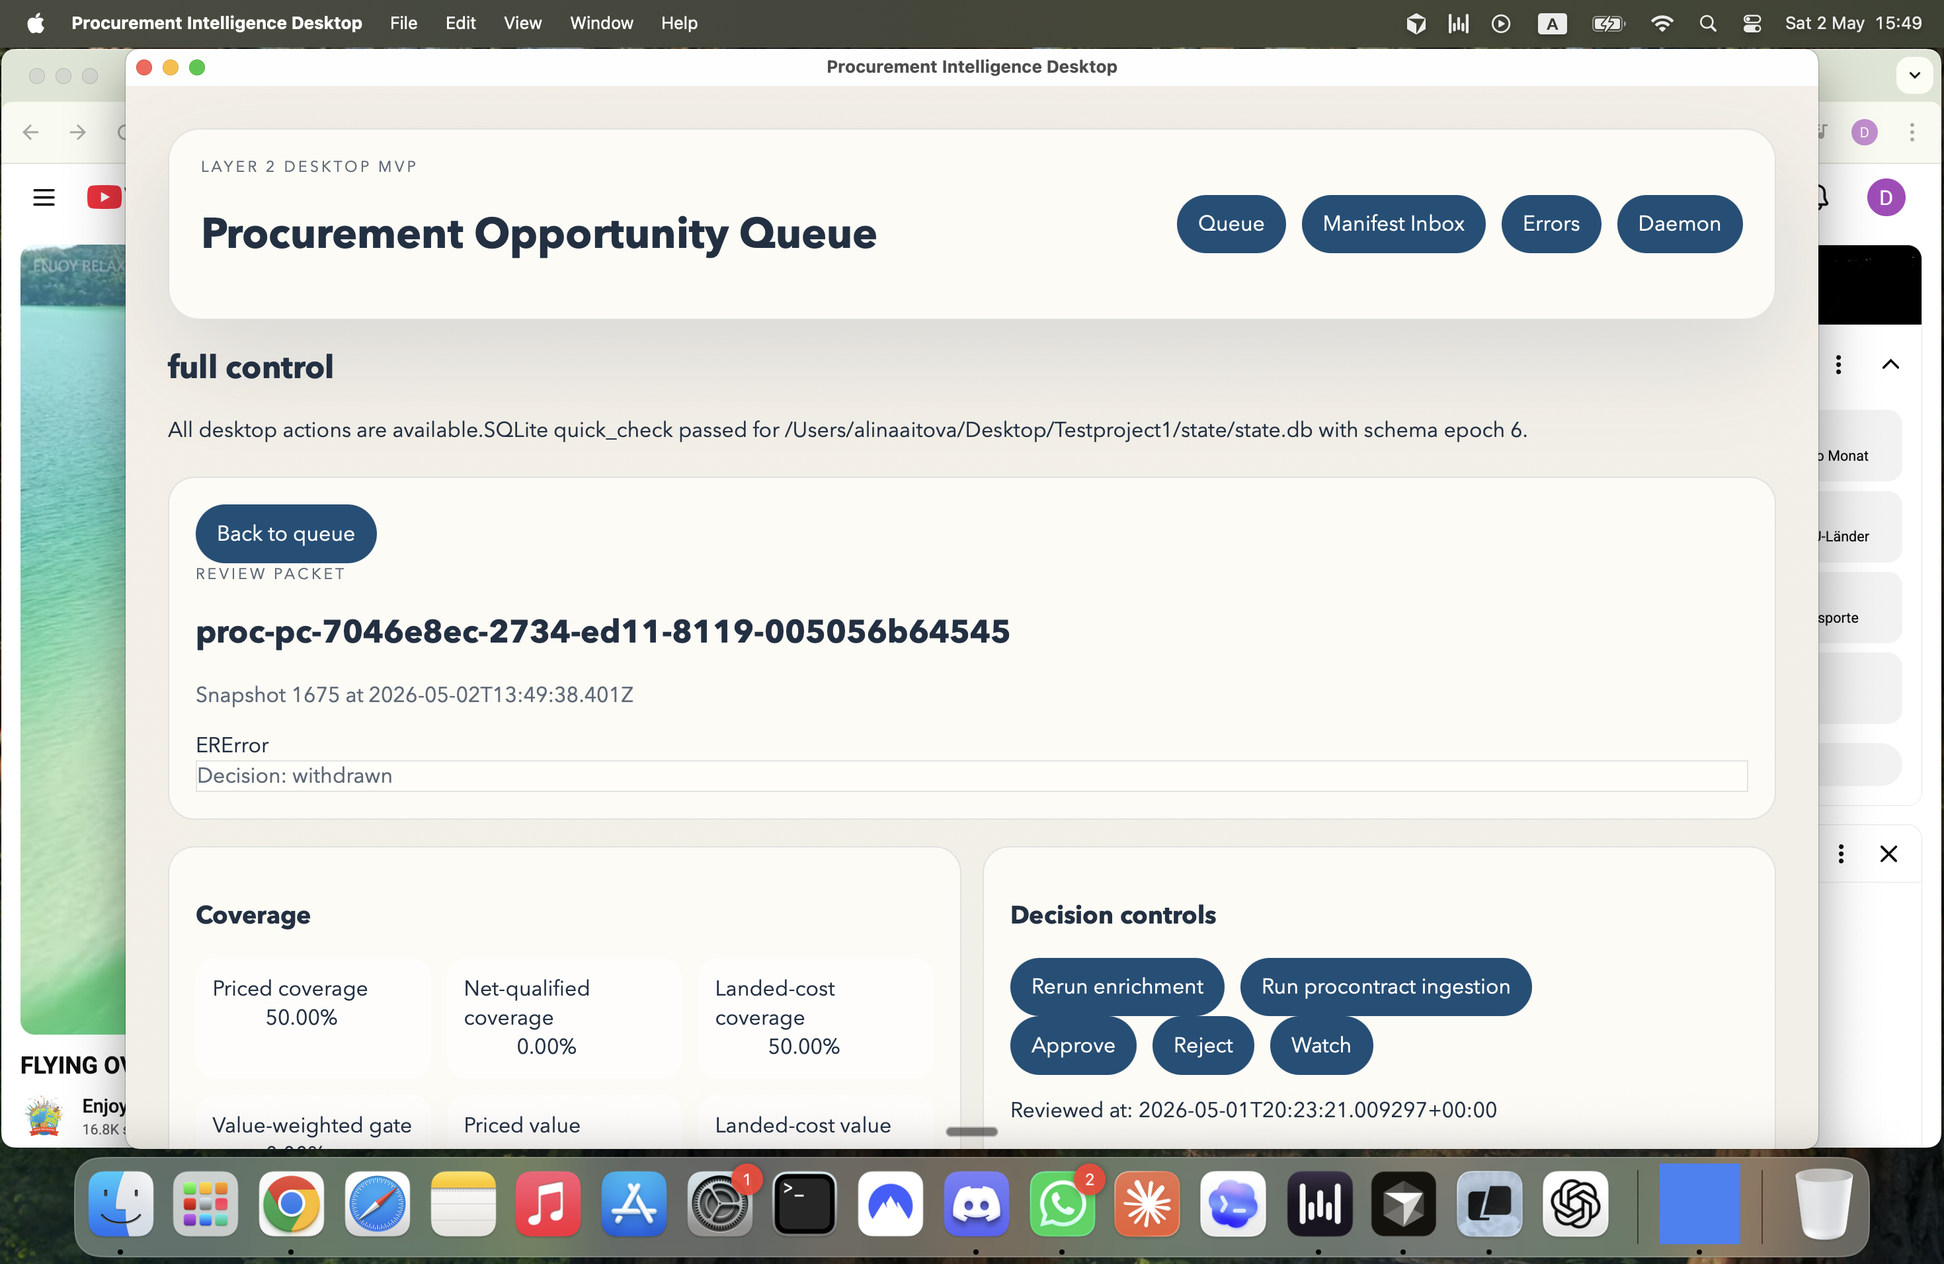
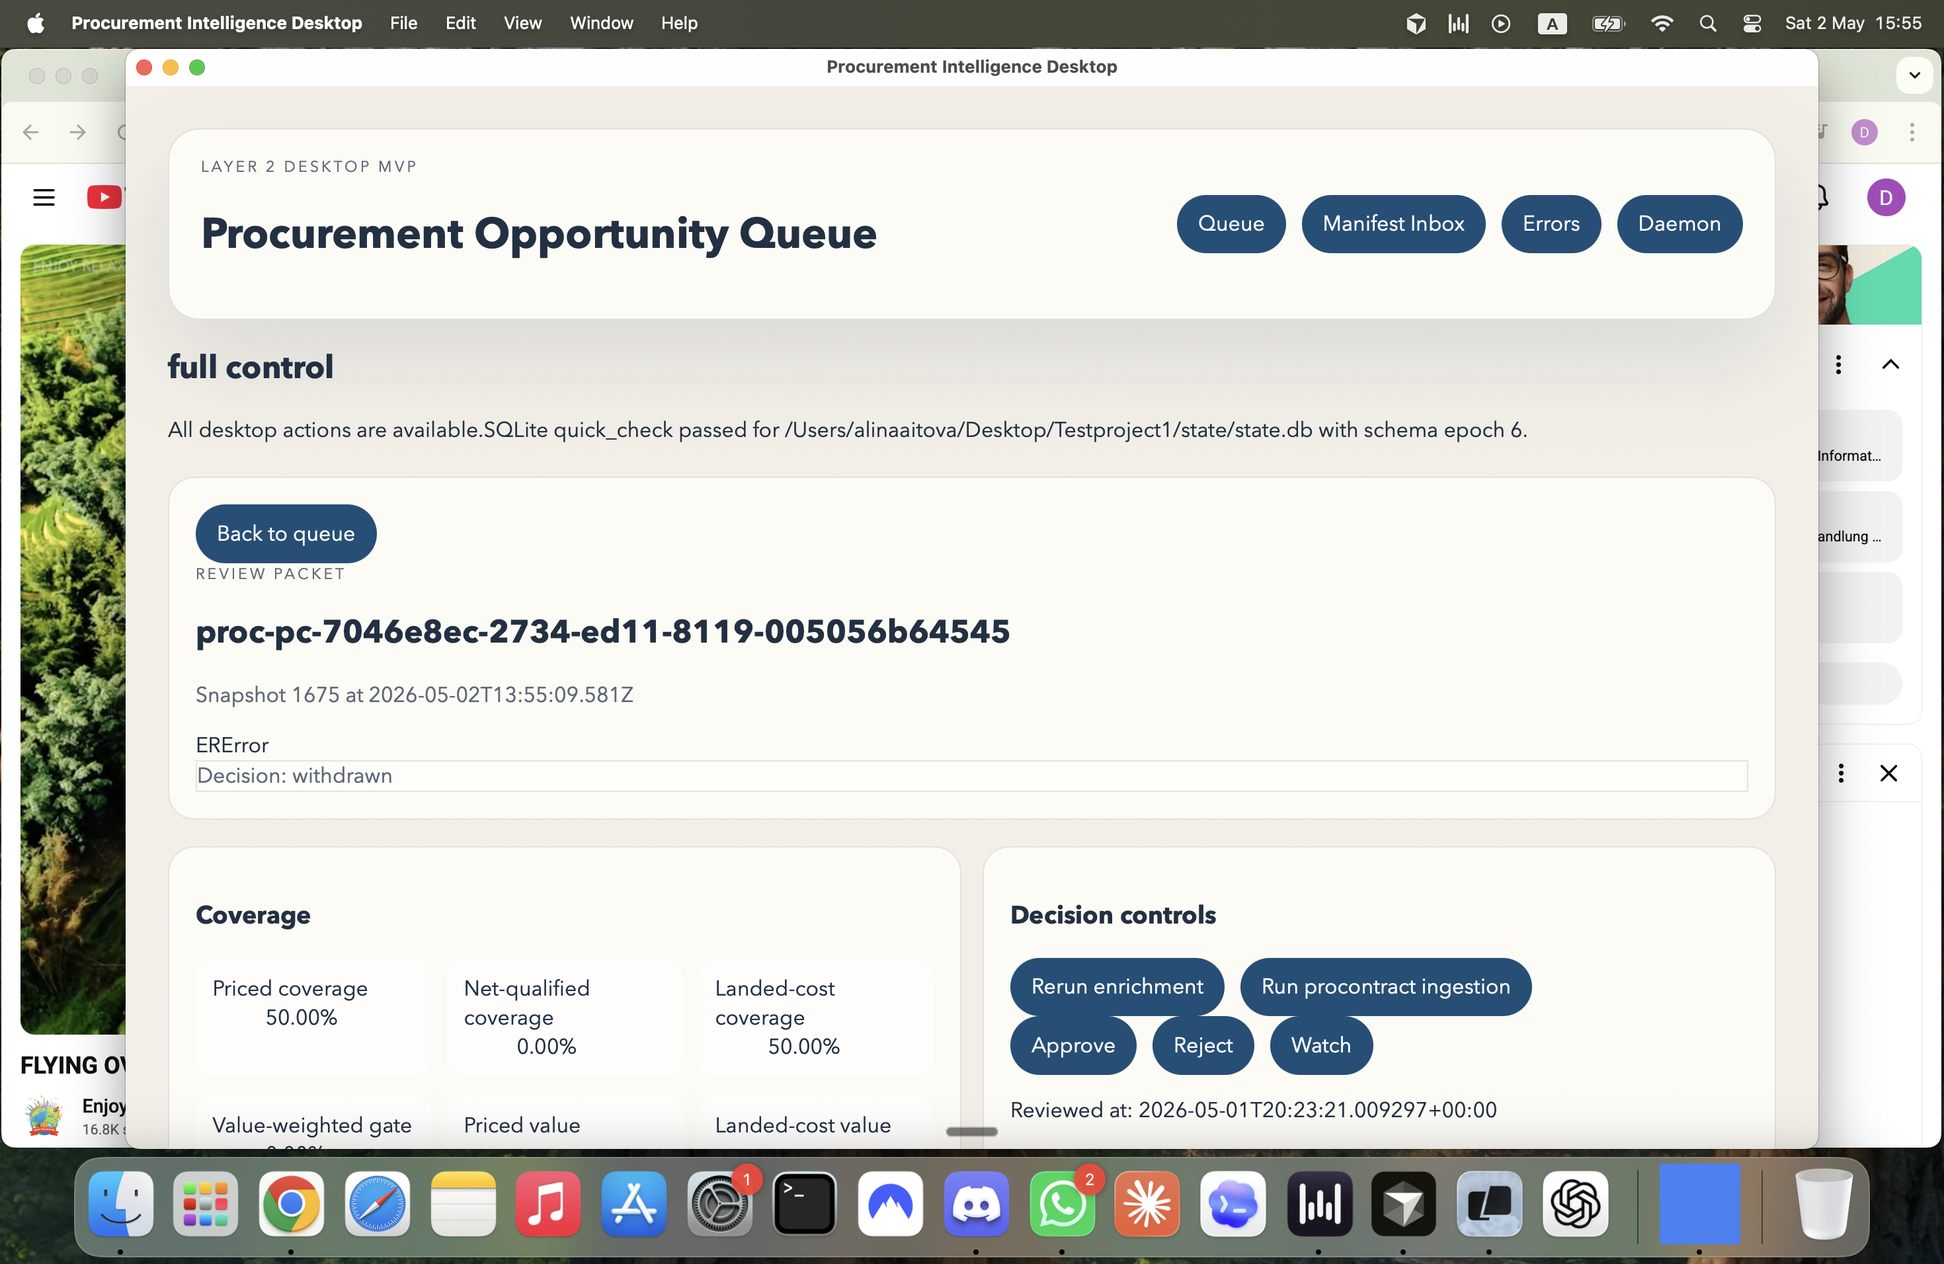
Validate stage 14 phase 2 live flow

diff --git a/apps/desktop/src/pages/OperatorDecisionPanel.test.tsx b/apps/desktop/src/pages/OperatorDecisionPanel.test.tsx
@@ -148,7 +148,7 @@ describe('FT.8 — Decision history audit chain renders entries with status', ()
         intentId: 'intent-2',
         idempotencyKey: 'key-2',
         disposition: 'watch',
-        status: 'superseded',
+        status: 'stale',
         reviewedBasisHash: 'h0',
         reviewedManifestHash: 'm0',
         reviewedAt: '2026-04-01T11:00:00Z',
@@ -159,10 +159,22 @@ describe('FT.8 — Decision history audit chain renders entries with status', ()
       {
         intentId: 'intent-3',
         idempotencyKey: 'key-3',
-        disposition: 'reject',
-        status: 'withdrawn',
+        disposition: 'watch',
+        status: 'superseded',
         reviewedBasisHash: 'h2',
         reviewedManifestHash: 'm2',
+        reviewedAt: '2026-04-01T10:30:00Z',
+        queuedAt: '2026-04-01T10:30:00Z',
+        supersededByIntentId: 'intent-1',
+        decisionNote: null,
+      },
+      {
+        intentId: 'intent-4',
+        idempotencyKey: 'key-4',
+        disposition: 'reject',
+        status: 'withdrawn',
+        reviewedBasisHash: 'h3',
+        reviewedManifestHash: 'm3',
         reviewedAt: '2026-04-01T10:00:00Z',
         queuedAt: '2026-04-01T10:00:00Z',
         supersededByIntentId: null,
@@ -171,10 +183,31 @@ describe('FT.8 — Decision history audit chain renders entries with status', ()
     ];
     const html = panel({ history });
     expect(html).toContain('data-status="queued"');
+    expect(html).toContain('data-status="stale"');
     expect(html).toContain('data-status="superseded"');
     expect(html).toContain('data-status="withdrawn"');
-    // Withdraw button only appears for the queued intent
-    expect(html.match(/data-testid="withdraw-decision-button"/g)?.length).toBe(1);
+    // Withdraw button appears for queued and stale intents.
+    expect(html.match(/data-testid="withdraw-decision-button"/g)?.length).toBe(2);
     expect(html).toContain('Looks good'); // decision_note rendered
+  });
+
+  it('bug_stale_decision_withdraw_regression_renders_withdraw_button', () => {
+    const history: DecisionHistoryEntry[] = [
+      {
+        intentId: 'intent-stale',
+        idempotencyKey: 'key-stale',
+        disposition: 'approve',
+        status: 'stale',
+        reviewedBasisHash: 'h1',
+        reviewedManifestHash: 'm1',
+        reviewedAt: '2026-04-01T12:00:00Z',
+        queuedAt: '2026-04-01T12:00:00Z',
+        supersededByIntentId: null,
+        decisionNote: null,
+      },
+    ];
+    const html = panel({ history });
+    expect(html).toContain('data-status="stale"');
+    expect(html).toContain('data-testid="withdraw-decision-button"');
   });
 });

diff --git a/apps/desktop/src/lib/transport.test.ts b/apps/desktop/src/lib/transport.test.ts
@@ -43,11 +43,25 @@ describe('transport shim', () => {
 
     await transport.invoke('list_processes', { limit: 10 });
     await transport.invoke('capture_decision', { processId: 'proc-1' });
+    await transport.invoke('get_decision_history', { processId: 'proc-1' });
+    await transport.invoke('capture_clarification', {
+      processId: 'proc-1',
+      candidateId: 'candidate-1',
+    });
     transport.subscribe('sessions', 12, () => undefined);
 
     expect(invoke).toHaveBeenCalledWith('list_processes', { limit: 10 });
     expect(invoke).toHaveBeenCalledWith('capture_decision', {
       params: { processId: 'proc-1' },
+    });
+    expect(invoke).toHaveBeenCalledWith('get_decision_history', {
+      params: { processId: 'proc-1' },
+    });
+    expect(invoke).toHaveBeenCalledWith('capture_clarification', {
+      params: {
+        processId: 'proc-1',
+        candidateId: 'candidate-1',
+      },
     });
     expect(subscribe).toHaveBeenCalledWith('sessions', 12, expect.any(Function));
     expect(fetch).not.toHaveBeenCalled();

diff --git a/apps/desktop/src/pages/OperatorDecisionPanel.tsx b/apps/desktop/src/pages/OperatorDecisionPanel.tsx
@@ -633,7 +633,7 @@ export function OperatorDecisionPanel({
                 {entry.decisionNote ? (
                   <p style={{ fontSize: '0.9em' }}>{entry.decisionNote}</p>
                 ) : null}
-                {entry.status === 'queued' ? (
+                {entry.status === 'queued' || entry.status === 'stale' ? (
                   <button
                     type="button"
                     data-testid="withdraw-decision-button"

diff --git a/apps/desktop/src/lib/transport.ts b/apps/desktop/src/lib/transport.ts
@@ -52,6 +52,12 @@ const TAURI_PARAMS_WRAPPED_COMMANDS = new Set([
   'trigger_ingestion',
   'trigger_enrichment',
   'capture_decision',
+  'get_decision_history',
+  'get_active_overrides',
+  'capture_clarification',
+  'withdraw_clarification',
+  'withdraw_decision',
+  'trigger_pipeline_rerun',
   'resolve_error',
   'rerun_from_error',
   'retry_job',

diff --git a/apps/desktop/src-tauri/src/query_service.rs b/apps/desktop/src-tauri/src/query_service.rs
@@ -1795,41 +1795,46 @@ fn load_manifest_inbox_rows(conn: &Connection) -> Result<Vec<ManifestInboxRow>, 
                      WHERE n.process_id = m.process_id
                      ORDER BY n.published_at DESC, n.id ASC
                      LIMIT 1
-                   ) AS buyer_name
+                   ) AS buyer_name,
+                   pa.decision_basis_hash AS decision_basis_hash
             FROM manifests m
             LEFT JOIN procurement_processes p ON p.id = m.process_id
+            LEFT JOIN pipeline_assessments pa ON pa.process_id = m.process_id
             ORDER BY m.updated_at DESC, m.process_id ASC
             ",
         )
         .map_err(storage_unreadable)?;
     let rows = stmt
         .query_map([], |row| {
-            Ok(ManifestInboxRow {
-                process_id: row.get::<_, String>(0)?,
-                canonical_process_id: row.get::<_, String>(1)?,
-                title: row.get::<_, Option<String>>(8)?,
-                buyer_name: row.get::<_, Option<String>>(9)?,
-                estimated_value_pence: row.get::<_, Option<i64>>(7)?,
-                stoplight: row.get::<_, Option<String>>(2)?,
-                suggested_action: row.get::<_, Option<String>>(3)?,
-                clarification_prompt_count: row.get::<_, i64>(4)?,
-                manifest_basis_hash: row.get::<_, Option<String>>(5)?,
-                generated_at: row.get::<_, String>(6)?,
-                decision: DecisionStatus {
-                    disposition: None,
-                    status: None,
-                    is_stale: false,
-                    decided_at: None,
+            Ok((
+                ManifestInboxRow {
+                    process_id: row.get::<_, String>(0)?,
+                    canonical_process_id: row.get::<_, String>(1)?,
+                    title: row.get::<_, Option<String>>(8)?,
+                    buyer_name: row.get::<_, Option<String>>(9)?,
+                    estimated_value_pence: row.get::<_, Option<i64>>(7)?,
+                    stoplight: row.get::<_, Option<String>>(2)?,
+                    suggested_action: row.get::<_, Option<String>>(3)?,
+                    clarification_prompt_count: row.get::<_, i64>(4)?,
+                    manifest_basis_hash: row.get::<_, Option<String>>(5)?,
+                    generated_at: row.get::<_, String>(6)?,
+                    decision: DecisionStatus {
+                        disposition: None,
+                        status: None,
+                        is_stale: false,
+                        decided_at: None,
+                    },
                 },
-            })
+                row.get::<_, Option<String>>(10)?,
+            ))
         })
         .map_err(storage_unreadable)?;
     let mut out: Vec<ManifestInboxRow> = Vec::new();
     for row in rows {
-        let mut row = row.map_err(storage_unreadable)?;
+        let (mut row, current_decision_basis_hash) = row.map_err(storage_unreadable)?;
         row.decision = decision_status_for_process(
             decisions.get(&row.canonical_process_id),
-            row.manifest_basis_hash.as_deref(),
+            current_decision_basis_hash.as_deref(),
         );
         out.push(row);
     }

diff --git a/apps/desktop/src-tauri/tests/query_service.rs b/apps/desktop/src-tauri/tests/query_service.rs
@@ -1233,6 +1233,49 @@ fn bug_withdrawn_decision_regression_does_not_roll_up_as_stale() -> Result<()> {
 }
 
 #[test]
+fn bug_manifest_inbox_regression_compares_decision_basis_not_manifest_basis() -> Result<()> {
+    let mut harness = Harness::new()?;
+    harness.seed_process("p1", "2026-04-01T10:00:00Z", "review")?;
+    harness.seed_candidate_and_quote("p1")?;
+    seed_inbox_manifest(&mut harness.state_db, "p1", "clarify", 1, "[]")?;
+    seed_intent(
+        &mut harness.state_db,
+        "intent-queued",
+        "p1",
+        "approve",
+        "queued",
+        "key-queued",
+        None,
+        Some("Fresh decision after manifest regeneration"),
+        Some("2026-04-02T12:00:00Z"),
+    )?;
+    harness.state_db.with_write_transaction(|tx| {
+        tx.execute(
+            "UPDATE manifests SET manifest_basis_hash = 'manifest-basis-p1-new' WHERE process_id = 'p1'",
+            [],
+        )?;
+        Ok(())
+    })?;
+
+    let service = harness.service()?;
+    let inbox = service
+        .list_manifests()
+        .map_err(|error| anyhow!("{:?}: {}", error.code, error.message))?;
+    let row = inbox
+        .data
+        .iter()
+        .find(|row| row.process_id == "p1")
+        .ok_or_else(|| anyhow!("p1 manifest row not found"))?;
+    assert_eq!(row.decision.disposition.as_deref(), Some("approve"));
+    assert_eq!(row.decision.status.as_deref(), Some("queued"));
+    assert!(
+        !row.decision.is_stale,
+        "fresh queued decisions compare reviewed_basis_hash to pipeline decision_basis_hash, not manifest_basis_hash"
+    );
+    Ok(())
+}
+
+#[test]
 fn rt_4_get_active_overrides_returns_only_active_rows() -> Result<()> {
     let mut harness = Harness::new()?;
     harness.seed_process("p1", "2026-04-01T10:00:00Z", "review")?;

diff --git a/docs/pipeline/stage-14-phase-2-live-operational-validation-manifest.md b/docs/pipeline/stage-14-phase-2-live-operational-validation-manifest.md
@@ -1,0 +1,84 @@
+# Stage 14 Phase 2 - Live Operational Validation Manifest
+
+> Generated: 2026-05-02T15:17:51Z
+> Status: RED
+
+## Summary
+
+The live desktop app launched under `bun run tauri:dev`, rendered the Manifest Inbox and Process Detail views from `state/state.db`, and the DGU cross-session stale-decision path was proven end to end: a queued decision became stale after an out-of-band DGU quantity change and Stage 11/12/13 re-run, the Inbox showed the stale indicator, the detail view showed the stale banner, and withdrawal cleared the banner. Three live-demo regressions were fixed with regression tests. The validation cannot be marked GREEN because the shared live database no longer matches the handoff fixture: it now has 8 manifests instead of 7, net-margin verdicts are `reject=1, review=17` instead of 17 review-only rows, DGU and Aggregates each expose one clarification prompt instead of the requested prompt shapes, and the DGU override path updates the active row in place rather than retaining an active 150 row plus superseded 250 row.
+
+## Step-by-step Screenshots
+
+| Step | Screenshot | Result |
+|---|---|---|
+| 1 - Inbox loads | docs/pipeline/stage-14-phase-2-screenshots/step-01-inbox.png | FAIL - rendered from live DB, but live DB has 8 process cards, not the required 7. |
+| 2 - DGU detail | docs/pipeline/stage-14-phase-2-screenshots/step-02-detail-DGU.png | PASS - DGU detail opened and rendered detail content plus operator panel. |
+| 3 - DGU clarification form | docs/pipeline/stage-14-phase-2-screenshots/step-03-clarification-form.png | FAIL - form rendered, but live DGU manifest exposed only `awaiting_rfq_quote`, not the required two prompts. |
+| 4 - Manifest body | docs/pipeline/stage-14-phase-2-screenshots/step-04-manifest-body.png | PARTIAL - manifest/detail content rendered; A-F markdown section completeness was not fully proven by screenshot. |
+| 5 - Decision history | docs/pipeline/stage-14-phase-2-screenshots/step-05-decision-history.png | PASS - history and active overrides rendered after IPC parameter-wrapping fix. |
+| 6 - DGU decision captured | docs/pipeline/stage-14-phase-2-screenshots/step-06-decision-captured.png | PASS - decision appeared in the detail header after capture. |
+| 6b - DGU queued history | docs/pipeline/stage-14-phase-2-screenshots/step-06-decision-history-queued.png | PASS - history showed the new queued decision with note. |
+| 7 - Aggregates detail | docs/pipeline/stage-14-phase-2-screenshots/step-07-aggregates-detail.png | FAIL - Aggregates opened, but live prompt shape no longer matched the requested `quantity_basis_undetermined` / `qty=500 kg` workflow. |
+| Staleness S.5 - Inbox stale indicator | docs/pipeline/stage-14-phase-2-screenshots/step-10-stale-inbox.png | PASS - DGU card showed `Approve (stale)` after external basis-hash change. |
+| Staleness S.6 - Detail stale banner | docs/pipeline/stage-14-phase-2-screenshots/step-11-stale-detail.png | PASS - detail banner appeared: "This decision was made against an earlier manifest version. Re-confirm or withdraw." |
+| Staleness S.8 - Post-withdrawal | docs/pipeline/stage-14-phase-2-screenshots/step-12-post-withdrawal.png | PASS - stale DGU decision was withdrawn and the banner disappeared. |
+
+## Bugs Surfaced + Fixed
+
+| File | Bug | Fix | Regression test |
+|---|---|---|---|
+| `apps/desktop/src/lib/transport.ts` | Stage 14 Tauri commands such as `get_decision_history` and `capture_clarification` were invoked without the required `{ params: ... }` wrapper, so live history/override calls failed. | Added all Stage 14 parameter-object commands to `TAURI_PARAMS_WRAPPED_COMMANDS`. | `apps/desktop/src/lib/transport.test.ts` asserts wrapping for `get_decision_history` and `capture_clarification`. |
+| `apps/desktop/src-tauri/src/query_service.rs` | Manifest Inbox compared intent `reviewed_basis_hash` against `manifests.manifest_basis_hash`, making fresh queued decisions look stale after manifest re-render even when the decision basis was current. | Joined `pipeline_assessments` and compare against `decision_basis_hash` for inbox decision status. | `bug_manifest_inbox_regression_compares_decision_basis_not_manifest_basis`. |
+| `apps/desktop/src/pages/OperatorDecisionPanel.tsx` | Stale decisions showed the stale banner but had no withdraw button; only queued decisions could be withdrawn in history. | Render withdraw action for both `queued` and `stale` history entries. | `bug_stale_decision_withdraw_regression_renders_withdraw_button`. |
+
+## R.1-R.12 Status
+
+| # | Criterion | Status | Evidence |
+|---|---|---|---|
+| R.1 | `bunx tauri dev` launches and app window opens within 3 minutes; subsequent launches within 30s. | PASS | `bun run tauri:dev` launched the desktop window repeatedly; last launch compiled and opened the Aggregates detail route within the allowed first-launch window. |
+| R.2 | Inbox renders all 7 process cards from live `state.db`; stoplight colors correct. | FAIL | Screenshot `step-01-inbox.png`; DB query returned `manifests=8`. |
+| R.3 | DGU detail opens with markdown sections A-F, Quick-Decide, Clarification form, and two prior intents. | PARTIAL | DGU detail, operator panel, and prior intents rendered; live DGU prompt data no longer included the required two-prompt form. |
+| R.4 | Clarification submit creates active qty=150 override and supersedes prior qty=250. | FAIL | DGU override was changed through daemon CLI because desktop click automation was blocked; final active DGU override is qty=300 after staleness E2E, and the row is updated in place rather than preserving a visible superseded 250 row. |
+| R.5 | Re-run pipeline button shows progress modal and bumps DGU `manifest_basis_hash`. | PARTIAL | Stage 11/12/13 re-run was driven externally and DGU basis hash bumped; the UI progress modal was not validated because click automation was blocked. |
+| R.6 | Decision capture writes queued row with entered `decision_note`. | PASS | `dec-2026-05-02-dgu-live-001` was created with disposition `approve`, note text, and `queued` status before staleness; later withdrawn in S.8. |
+| R.7 | Aggregates opens, qty=500 kg clarification, re-run, decide `watch`, visible in DB. | FAIL | Aggregates opened, but live data exposed a `no_pricing_signal` choice prompt for asphalt rather than the requested quantity-basis prompt. |
+| R.8 | Stale banner appears within 2s of out-of-band basis-hash change. | PASS | DB moved DGU live decision to `stale`; `step-10-stale-inbox.png` and `step-11-stale-detail.png` show UI indicators. |
+| R.9 | Withdraw via UI flips intent to `withdrawn`. | PARTIAL | The UI now renders the withdraw button for stale decisions; macOS click automation could not activate it, so final withdrawal was completed through daemon CLI and verified in UI/DB. |
+| R.10 | All 9 demo screenshots plus at least 3 staleness screenshots committed. | FAIL | Screenshots exist for steps 1-7 and S.5/S.6/S.8; exact step 8 and step 9 UI-action screenshots were not captured because the Aggregates workflow and UI clicking were blocked. |
+| R.11 | Stage 11/12/13/14 invariants intact. | FAIL | `manifests=8`; net-margin verdicts are `reject=1, review=17`. Seeded demo intents `dec-2026-05-01-dgu-001` and `dec-2026-05-01-dgu-002` remained `superseded` and `withdrawn`. |
+| R.12 | Quality gates and required test suites pass. | PASS | All listed gates passed; counts below. |
+
+## Quality Gates
+
+| Gate | Result |
+|---|---|
+| `cargo fmt --check` | PASS |
+| `cargo check --all-targets` | PASS |
+| `cargo clippy --all-targets -- -D warnings` | PASS |
+| `cargo test -p daemon --bin daemon` | PASS - 169/169 |
+| `cargo test -p procintel-desktop --test query_service` | PASS - 23/23, includes 2 regression tests |
+| `cargo test -p procintel-desktop --test daemon_bridge` | PASS - 11/11 |
+| `cd apps/desktop && bunx vitest run` | PASS - 37/37 |
+| `for t in crates/daemon/tests/*.rs; do cargo test --test "$(basename "$t" .rs)" || exit 1; done` | PASS - all 39 integration test files |
+| `ubs <changed files>` | PASS exit 0; warnings were limited to pre-existing/test panic-surface heuristics and generic switch-case heuristics. |
+
+## Live DB Evidence
+
+| Query | Observed |
+|---|---|
+| `SELECT COUNT(*) FROM manifests` | 8 |
+| `SELECT COUNT(*) FROM landed_cost_estimates` | 4 |
+| `SELECT verdict, COUNT(*) FROM candidate_net_margin_assessments GROUP BY verdict` | `reject=1`, `review=17` |
+| Seeded DGU intents | `dec-2026-05-01-dgu-001=superseded`; `dec-2026-05-01-dgu-002=withdrawn` |
+| Live DGU intent | `dec-2026-05-02-dgu-live-001=withdrawn` after stale E2E withdrawal |
+| DGU active override | qty=300 after the out-of-band staleness E2E override |
+
+## Coordination Notes
+
+Agent Mail was unavailable for reservations: `health_check` returned `health_level=red` with degraded read-only recovery advice. No file reservations were acquired.
+
+## Out-of-scope Items Filed as Beads
+
+| Bead | Status | Reason |
+|---|---|---|
+| `testproject1-q63q` | OPEN | Restore or rebuild a deterministic Stage 14 Phase 2 live-validation fixture so the all-green demo can be re-run against the expected 7 manifests, 17 review verdicts, DGU/Aggregates prompt shapes, and override audit chain. |
